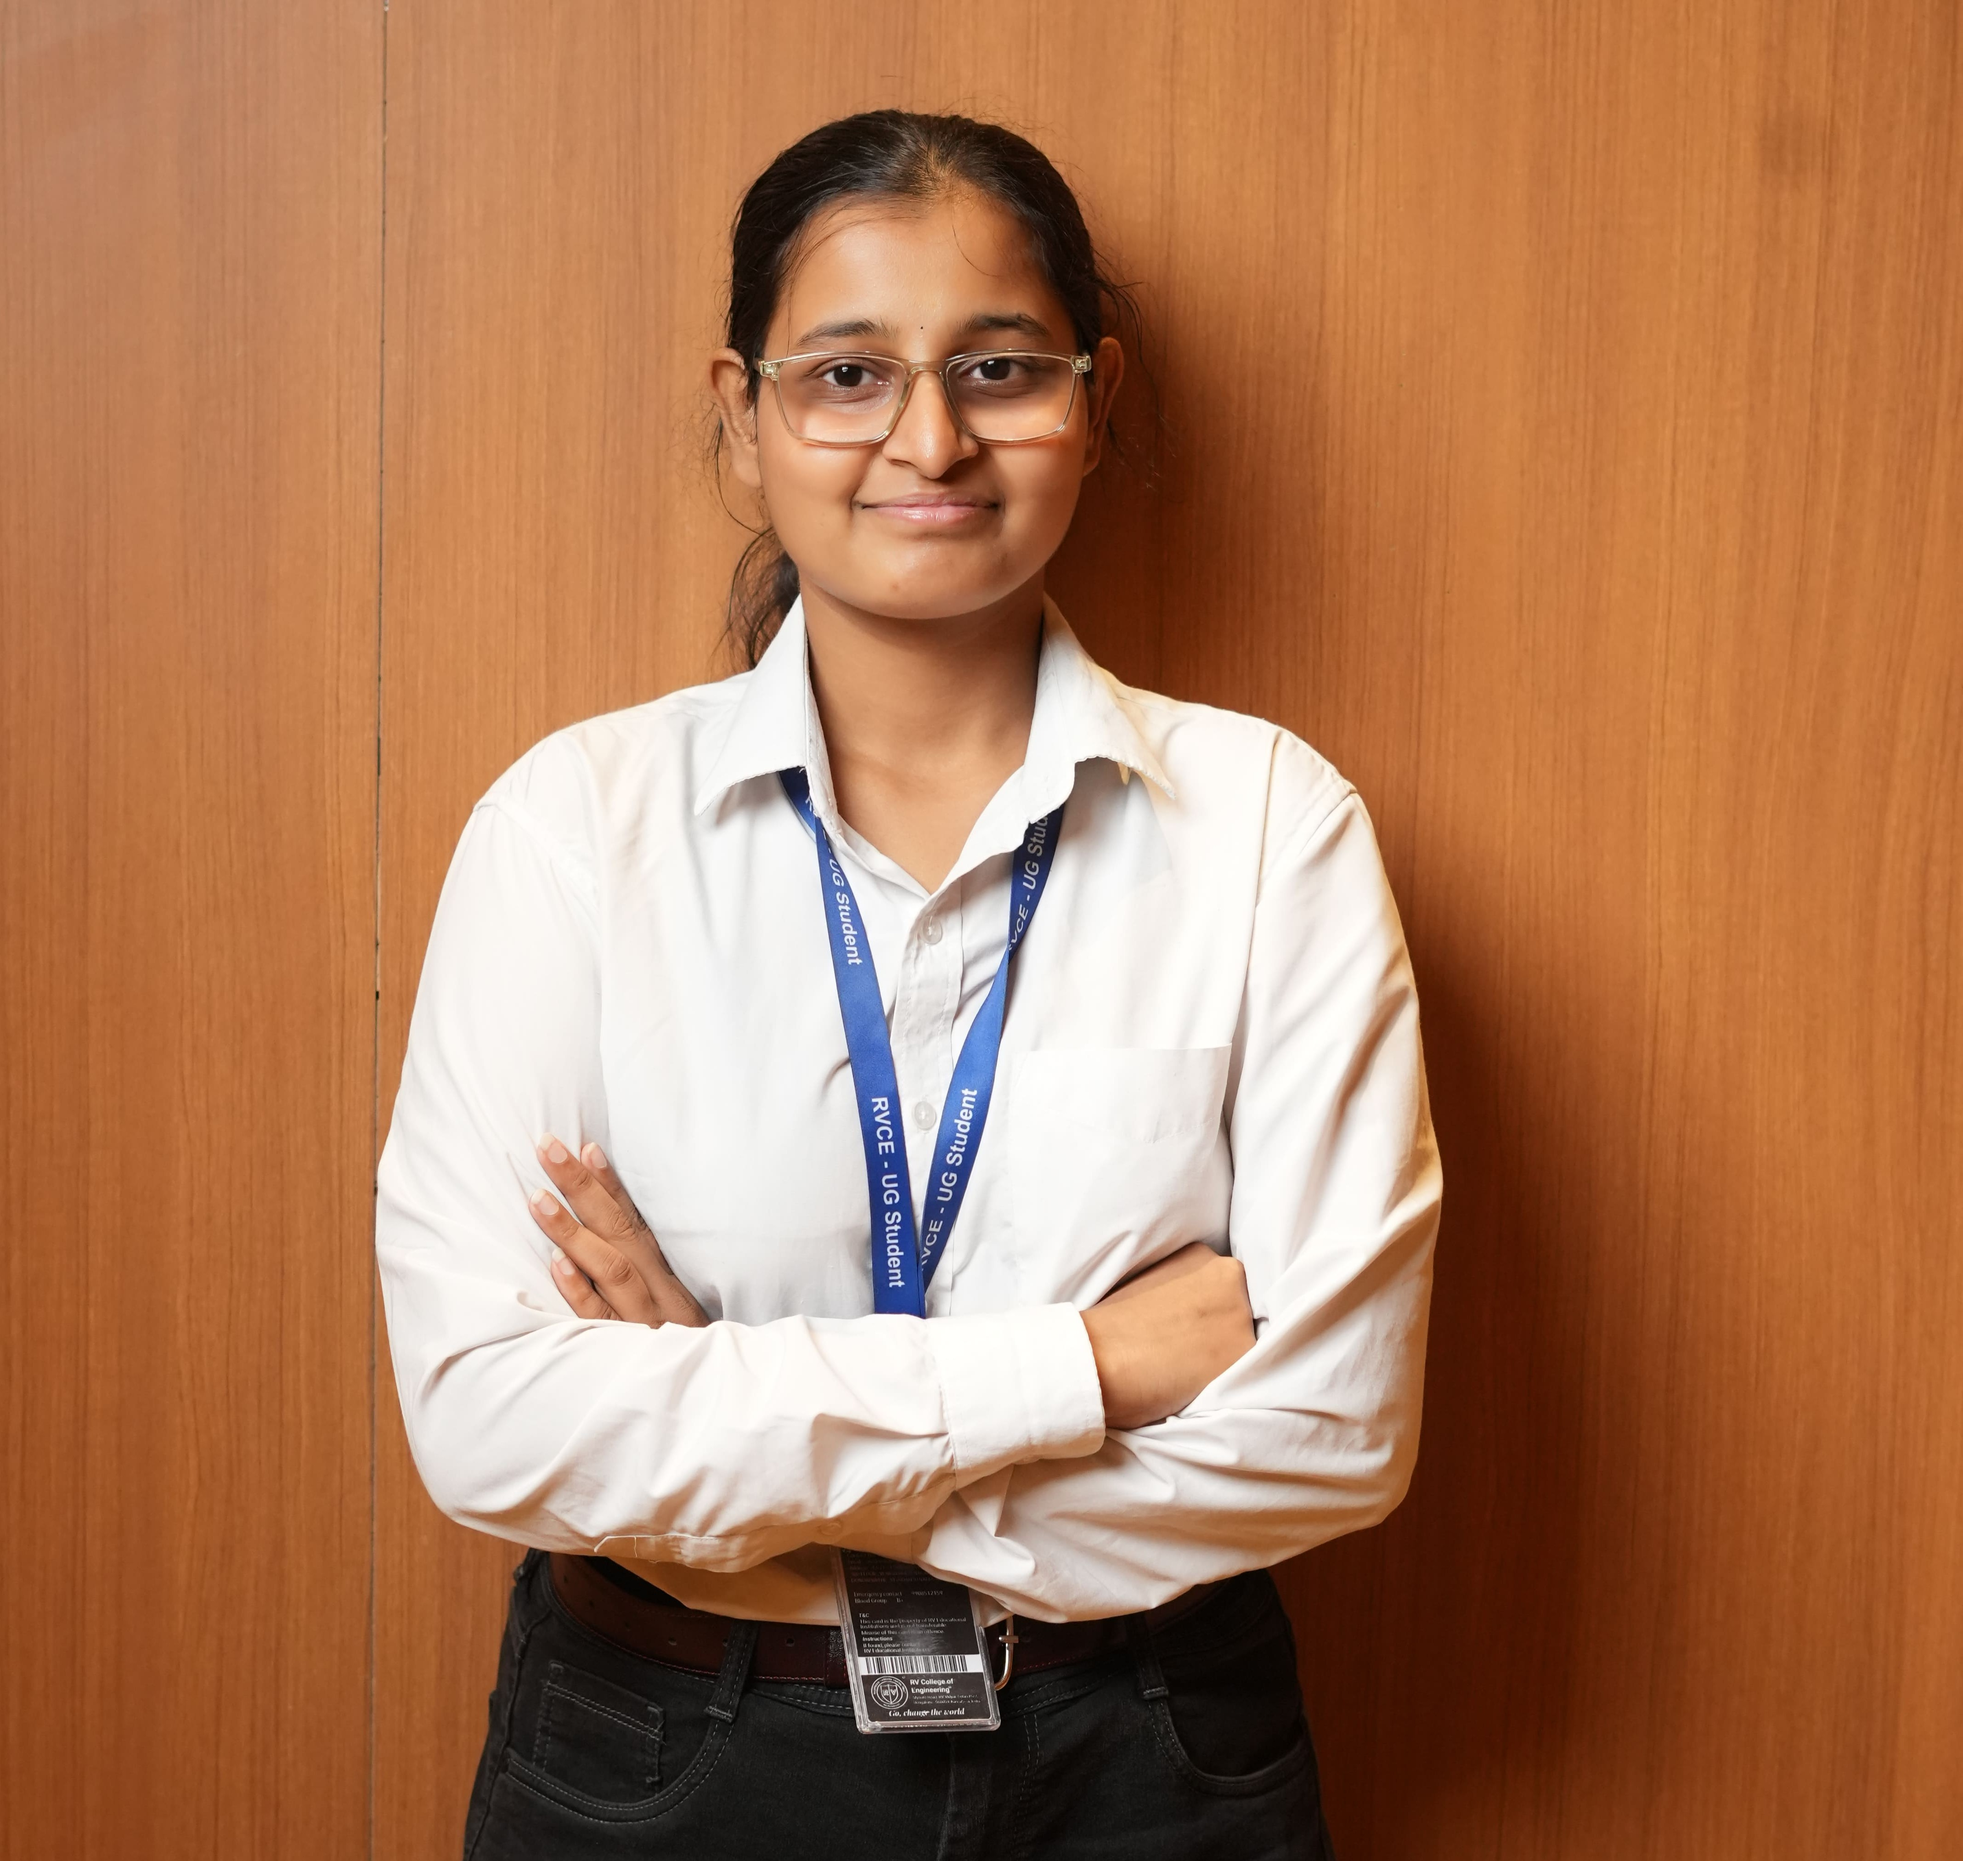
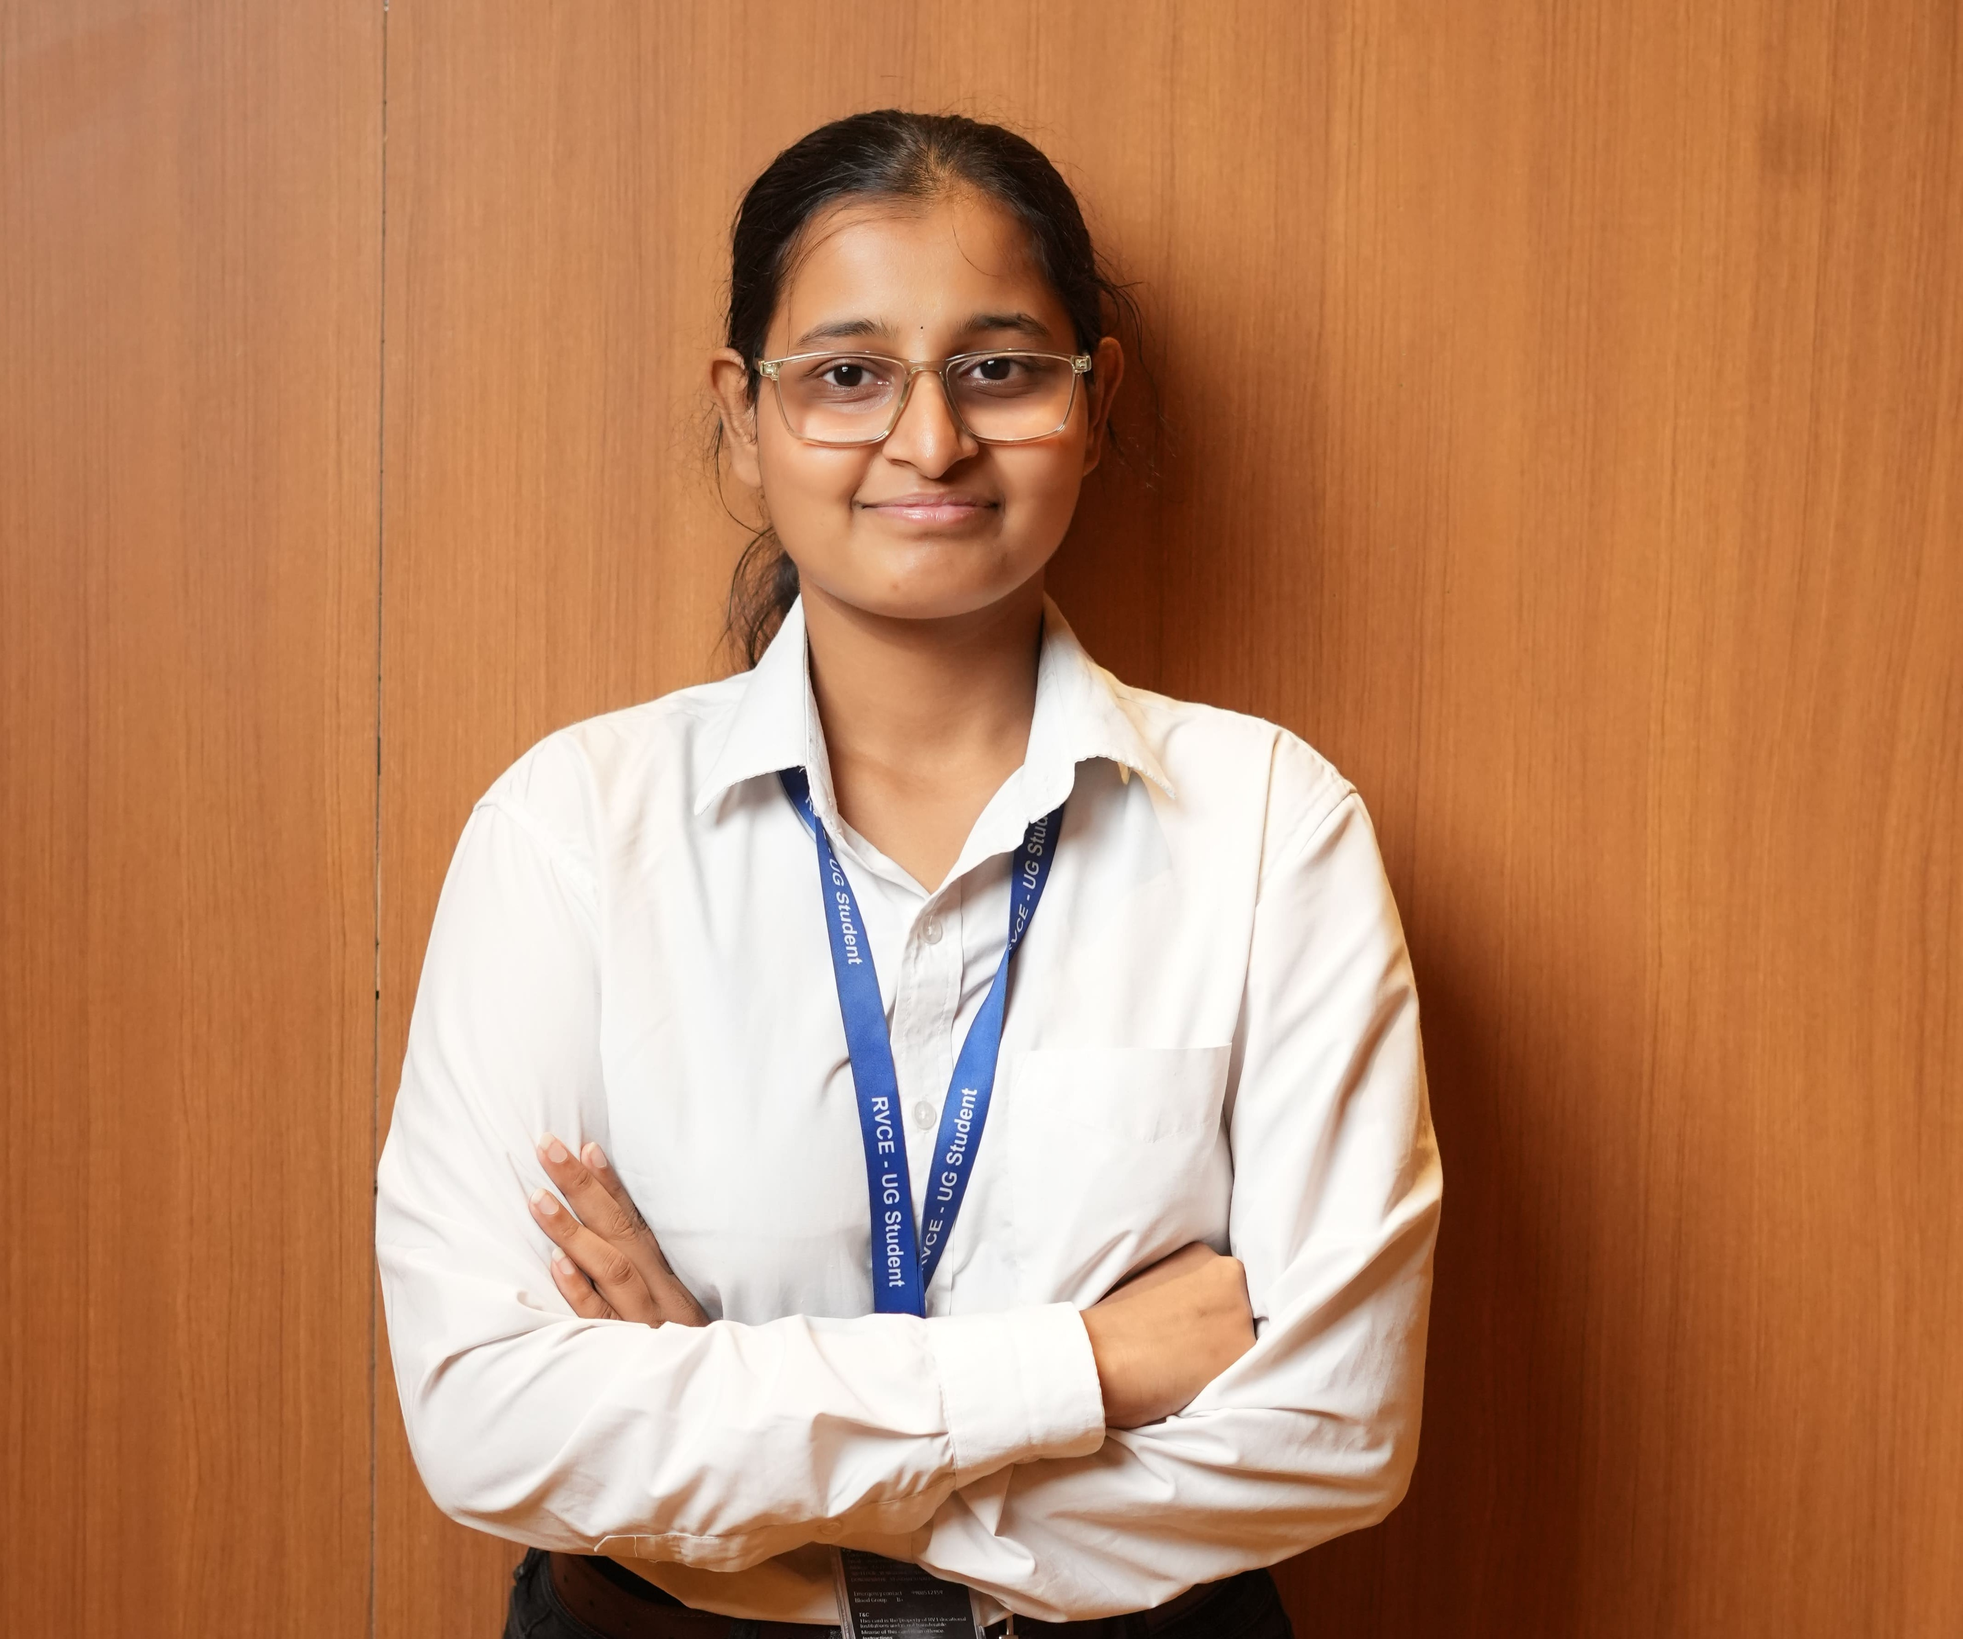
Merge Office Bearers and Footer updates

Changed region(s): [[0.1867, 0.0622, 0.9024, 1.0], [0.7468, 0.9641, 0.8713, 1.0], [0.9336, 0.8086, 0.9647, 0.8397]]

diff --git a/src/features/office-bearers/OfficeBearers.jsx b/src/features/office-bearers/OfficeBearers.jsx
@@ -65,14 +65,13 @@ const coreTeam = [
     email: 'assskoundinya.cs24@rvce.edu.in',
     photo: '/images/team/ASSSKoundinya.jpeg',
     linkedin: 'https://www.linkedin.com/in/a-s-s-s-koundinya-387a6b33a',
-    imageClass: 'object-cover object-[center_15%] scale-100',
   },
   {
     name: 'Parinitha M',
     role: 'Secretary',
     dept: 'Computer science and Enginnering',
     email: 'parinitham.cs24@rvce.edu.in',
-    photo: '/images/team/ParinithaM (2).jpeg',
+    photo: '/images/team/ParinithaM (2).png',
     linkedin: 'https://www.linkedin.com/in/parinitha-m-b8132b377',
   },
   {
@@ -80,10 +79,8 @@ const coreTeam = [
     role: 'Joint Secretary',
     dept: 'Mechanical Engineering',
     email: 'chinmayidevihn.me24@rvce.edu.in',
-    photo: '/images/team/ChinmayiDeviHN.jpeg',
+    photo: '/images/team/ChinmayiDeviHN.png',
     linkedin: 'https://www.linkedin.com/in/chinmayi-devi-h-n-149802357',
-    imageClass: 'object-cover object-[center_15%] scale-100',
-    containerClass: 'bg-white',
   },
   {
     name: 'Ameya Acharya',
@@ -92,7 +89,6 @@ const coreTeam = [
     email: 'ameyakaa.bt24@rvce.edu.in',
     photo: '/images/team/Ameya Acharya.png',
     linkedin: 'https://www.linkedin.com/in/ameyacharya2006',
-    imageClass: 'object-cover object-[center_50%] scale-150',
   },
 ];
 
@@ -120,26 +116,26 @@ const verticalsData = [
       },
     ],
     members: [
-      'Aadithya Varadaraj Seshadri',
-      'Abhinav MP',
-      'Ananya Karthik',
-      'Arigela Thapaswi',
-      'Chaitanya G',
-      'Daksh Jain',
-      'Jairaj S',
-      'Janhavi R',
-      'Jinam',
-      'Krupanka R',
+      'Vilas Bhandari',
       'Lakshmi Bhandary',
+      'Jairaj S',
+      'Ananya Karthik',
+      'Vaibhav Rajesh',
       'Owais Sabir',
-      'Ravi R',
+      'Arigela Thapaswi',
+      'T Sai Deva Harshini',
+      'Abhinav MP',
+      'Krupanka R',
       'Rohith Raj Reddy',
+      'Jinam',
+      'Aadithya Varadaraj Seshadri',
+      'Tulasi Shresta K',
+      'Chaitanya G',
+      'Ravi R',
       'Sona k.m',
       'Swaroop C Kulkarni',
-      'T Sai Deva Harshini',
-      'Tulasi Shresta K',
-      'Vaibhav Rajesh',
-      'Vilas Bhandari',
+      'Janhavi R',
+      'Daksh Jain',
     ],
   },
   {
@@ -155,16 +151,26 @@ const verticalsData = [
       },
     ],
     members: [
-      'Swaroop C Kulkarni',
-      'Tarun Aadhithya',
-      'Rohith Raj Reddy',
-      'Yashas R Gowda',
-      'V Sai Amogh Reddy',
-      'Aadithya Varadaraj Seshadri',
+      'Satyendra Nayak K',
+      'Aditi Mandviya',
       'Mia Michael',
+      'Yashas R Gowda',
+      'Swaroop C Kulkarni',
+      'Sinchana R Achar',
+      'Tarun Aadhithya',
+      'V Sai Amogh Reddy',
+      'Tharicka Murari',
+      'Aadithya Varadaraj Seshadri',
+      'Rohith Raj Reddy',
+      'Chetana',
       'Neha George',
       'Owais Sabir',
-      'Ravi R Naidu'
+      'Pavana',
+      'Ravi R',
+      'Harun Raju',
+      'Sanjana H V',
+      'Krupanka R',
+      'Advaya Mishra',
     ],
 
   },
@@ -189,18 +195,26 @@ const verticalsData = [
       },
     ],
     members: [
-      'Tharicka Murari',
-      'Ananya Karthik',
-      'Mia Michael',
-      'Neha George',
-      'Shreya Yadawad',
-      'Sriharini Vijaychandar',
-      'Satyendra Nayak K',
-      'Tarun Aadhithya',
+      'Krupanka R',
       'Yashas R Gowda',
+      'Ananya Karthik',
+      'Satyendra Nayak K',
+      'Shreya Yadawad',
+      'Tarun Aadhithya',
+      'Mia Michael',
+      'Tharicka Murari',
+      'Neha George',
       'Chaitanya G',
+      'Sriharini Vijaychandar',
       'Rohit Raju Reddy',
-      'Krupanka R'
+      'Aadithya Varadaraj Seshadri',
+      'Daksh Jain',
+      'Lakshmi Bhandary',
+      'Nikhitha',
+      'Vaibhav Rajesh',
+      'Swaroop C Kulkarni',
+      'Aditi Mandviya',
+      'Janhavi R',
     ],
   },
   {
@@ -211,7 +225,7 @@ const verticalsData = [
         role: 'Wing Head',
         dept: 'Civil Engineering',
         email: 'bparthasarathi.cv24@rvce.edu.in',
-        photo: '/images/team/Partha_spark.jpeg',
+        photo: '/images/team/Partha_spark.png',
         linkedin: 'https://www.linkedin.com/in/partha-sarathi-banda-6562733b6',
       },
       {
@@ -219,7 +233,7 @@ const verticalsData = [
         role: 'Wing Head',
         dept: 'Computer Science and Enginnering',
         email: 'pranavtm.cs24@rvce.edu.in',
-        photo: '/images/team/pranavtm.jpg',
+        photo: '/images/team/pranavtm.png',
         linkedin: 'https://www.linkedin.com/in/pranavtm',
       },
       {
@@ -232,26 +246,27 @@ const verticalsData = [
       },
     ],
     members: [
-      'Abhinandan Hegde',
-      'Adithi V',
-      'Advaya Mishra',
-      'Ankush N Borkar',
-      'Chaitanya G',
-      'Chetana',
-      'Harun Raju',
-      'Inika Ranganath Prasad',
-      'Jairaj S',
-      'Mia Michael',
-      'Nikhitha',
-      'Pavana',
-      'Ramya S',
-      'Satyendra Nayak K',
-      'Sinchara R Achar',
       'Sona K M',
-      'Swaroop C Kulkarni',
-      'Tarun Aadhithya',
-      'Tharicka Murari',
       'Yashas R Gowda',
+      'Abhinandan Hegde',
+      'Tharicka Murari',
+      'Chetana',
+      'Ramya S',
+      'Jairaj S',
+      'Pavana',
+      'T Sai Deva Harshini',
+      'Inika Ranganath Prasad',
+      'Ankush N Borkar',
+      'Mia Michael',
+      'Adithi V',
+      'Satyendra Nayak K',
+      'Advaya Mishra',
+      'Swaroop C Kulkarni',
+      'Harun Raju',
+      'Sinchara R Achar',
+      'Tarun Aadhithya',
+      'Chaitanya G',
+      'Vilas Bhandari',
     ],
   },
   {
@@ -262,23 +277,31 @@ const verticalsData = [
         role: 'Wing Head',
         dept: 'Computer Science and Engineering',
         email: 'mansirai.cs24@rvce.edu.in',
-        photo: '/images/team/MansiRai.jpeg',
+        photo: '/images/team/MansiRai.png',
         linkedin: 'https://www.linkedin.com/in/mansi-rai-587ab6371',
       },
     ],
     members: [
-      'Aditi Mandviya',
-      'Arigela Thapaswi',
-      'Daksh Jain',
-      'Janhavi R',
-      'Jinam',
-      'Lakshmi Bhandary',
-      'Sanjana H V',
-      'Sinchana R Achar',
-      'Sriharini Vijaychandar',
       'Tanvi Uthappa K',
-      'Tulasi Shresta K',
+      'Sanjana H V',
+      'Jinam',
+      'Arigela Thapaswi',
+      'Sriharini Vijaychandar',
+      'Aditi Mandviya',
       'Vilas Bhandari',
+      'Lakshmi Bhandary',
+      'Janhavi R',
+      'Daksh Jain',
+      'Tulasi Shresta K',
+      'Rohith Raj Reddy',
+      'Shreya Yadawad',
+      'Neha George',
+      'Ananya Karthik',
+      'Nikhitha',
+      'Chetana',
+      'Pavana',
+      'Mia Michael',
+      'Krupanka R'
     ],
   },
 ];
@@ -440,14 +463,14 @@ const FeaturedCard = ({ name, designation, photo }) => {
 };
 
 // Uniform Member Card (Core Team & Wing Heads)
-const MemberCard = ({ name, role, dept, photo, email, linkedin, imageClass, containerClass }) => (
+const MemberCard = ({ name, role, dept, photo, email, linkedin }) => (
   <div className="group bg-white rounded-3xl overflow-hidden shadow-lg border border-slate-100 hover:shadow-2xl hover:-translate-y-1.5 transition-all duration-300 w-[280px] sm:w-[300px] md:w-[320px] h-[430px] flex flex-col justify-between shrink-0">
     {/* Image container fixed height */}
-    <div className={`h-60 w-full relative overflow-hidden shrink-0 flex items-center justify-center ${containerClass || 'bg-gradient-to-br from-sparkBlue via-sparkBlue/90 to-sparkLightBlue'}`}>
+    <div className="h-60 w-full bg-gradient-to-br from-sparkBlue via-sparkBlue/90 to-sparkLightBlue relative overflow-hidden shrink-0">
       <img
         src={photo}
         alt={name}
-        className={`w-full h-full group-hover:scale-105 transition-transform duration-500 ${imageClass || 'object-cover object-top'}`}
+        className="w-full h-full object-cover object-top group-hover:scale-105 transition-transform duration-500"
         onError={(e) => { e.target.style.display = 'none'; }}
       />
     </div>

diff --git a/src/components/Footer.jsx b/src/components/Footer.jsx
@@ -17,7 +17,7 @@ const Footer = () => {
               </span>
             </p>
             <p className="text-sm text-white/70">
-              <span className="font-semibold text-white">RV College of Engineering</span> · Bengaluru, Karnataka · <a href="mailto:spark.iucee@rvce.edu.in" className="text-sparkAccent font-semibold hover:underline">spark.iucee@rvce.edu.in</a>
+              <span className="font-semibold text-white">RV College of Engineering</span> · Bengaluru, Karnataka · 560059 · <a href="mailto:spark.iucee@rvce.edu.in" className="text-sparkAccent font-semibold hover:underline">spark.iucee@rvce.edu.in</a>
             </p>
           </div>
         </div>
